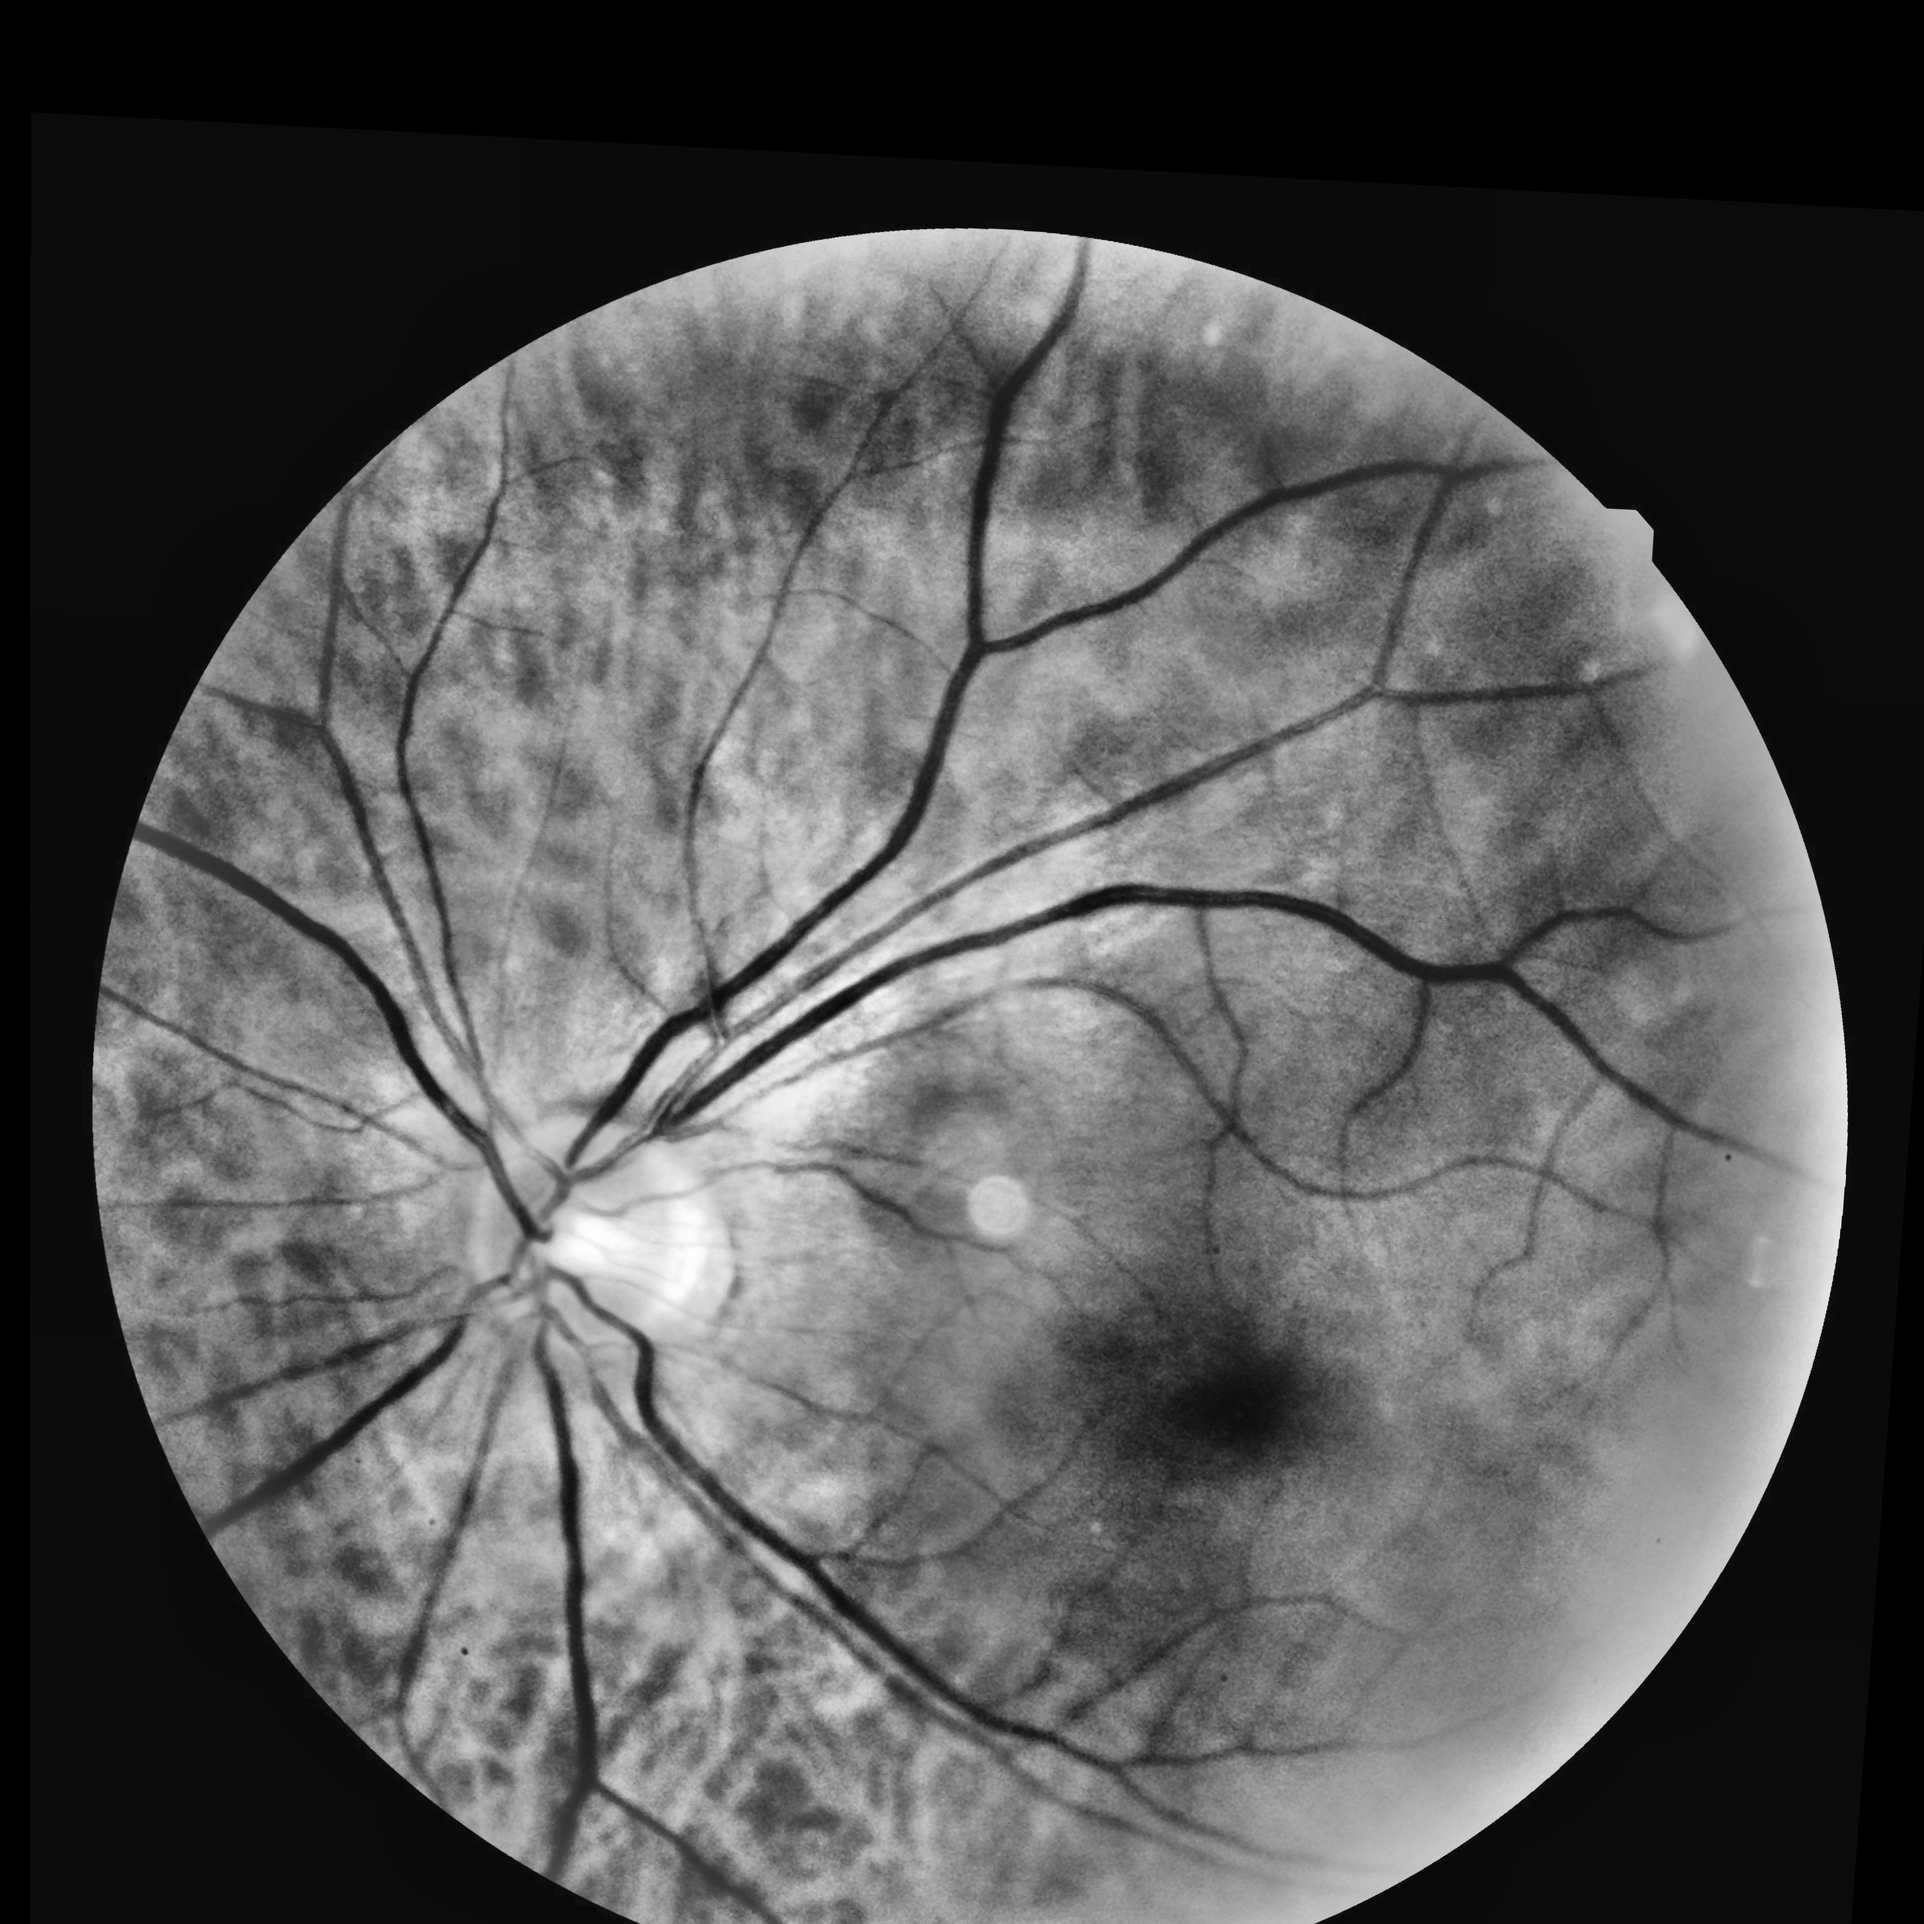
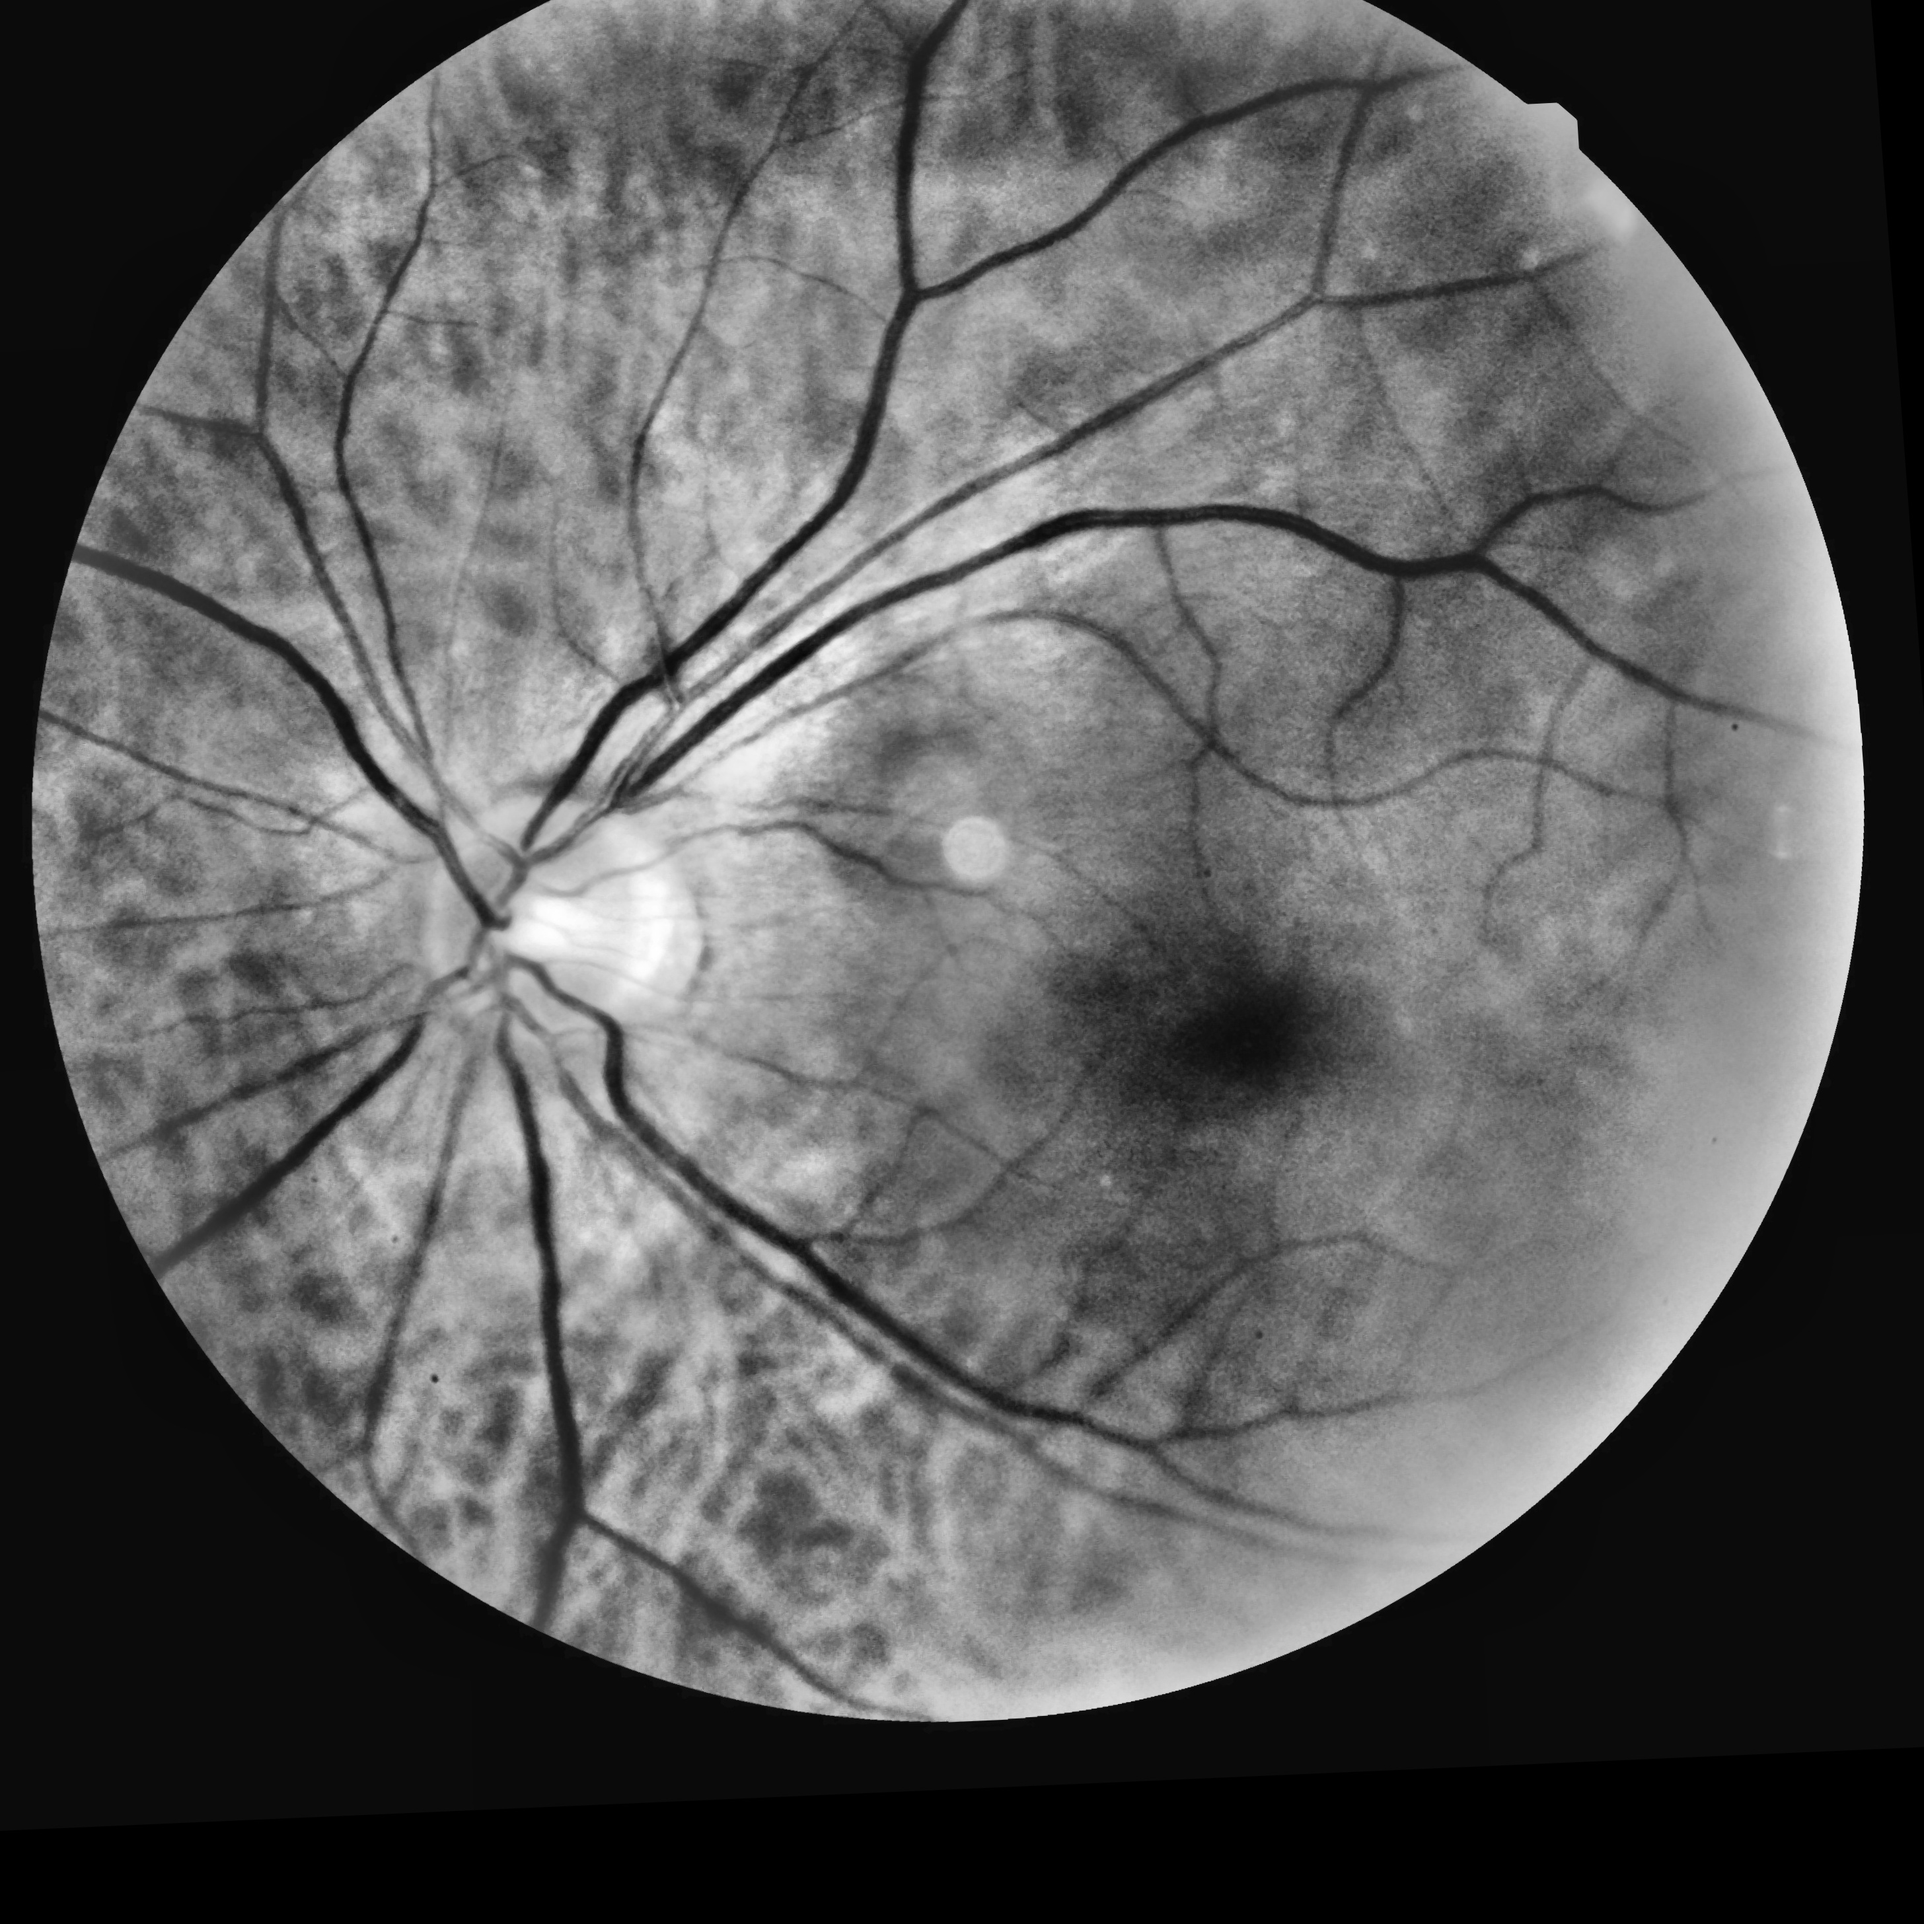
can kindad overlap now

diff --git a/ImageStitching/scripts/ImageWarper.py b/ImageStitching/scripts/ImageWarper.py
@@ -5,6 +5,8 @@ import os
 class ImageWarper:
     def __init__(self, images, homographies=None):
         self.images = images
+        self.warped_images = []
+        self.stitched_image = None
         self.homographies = homographies
 
     def warp_images(self):
@@ -13,20 +15,54 @@ class ImageWarper:
         
         warped_images = []
 
+        # apply homography on 2
         for i in range(1, len(self.images)):
             image = self.images[i]
             H = self.homographies[i-1] 
             warped_image = self.apply_warping(image.get_data(), H)
             warped_images.append(warped_image)
+        
+        self.warped_images = warped_images
 
         return warped_images
     
     def apply_warping(self, image, H):
         
-        height, width = image.shape[:2]
+        height, width = image.shape[:2] 
         warped_image = cv2.warpPerspective(image, H, (width, height))
 
         return warped_image
+    
+    def stitch_images(self):
+        # the first img is our base img for now
+        print("stiching images...")
+        base_image = self.images[0].get_data()
+        
+        for warped_image in self.warped_images:
+            base_image = self.blend_images(base_image, warped_image)
+
+        self.stitched_image = base_image
+        return base_image
+    
+    def blend_images(self, base_image, warped_image):
+        if base_image.shape != warped_image.shape:
+            print(f"Resizing warped_image from {warped_image.shape} to {base_image.shape}")
+            warped_image = cv2.resize(warped_image, (base_image.shape[1], base_image.shape[0]))
+        
+        blended_image = cv2.addWeighted(base_image, 0.5, warped_image, 0.5, 0)
+        return blended_image
+    
+
+    def save_stitched_image(self, folder_name, save_dir="./data/stitched/"):
+        if self.stitched_image is None:
+            raise ValueError("No stitched images found. Run stitch_images() first.")
+
+        stitched_filename = f"{folder_name}/{folder_name}.jpg"
+        save_path = os.path.join(save_dir, stitched_filename)
+        print("Saving stitched image in ", save_path)
+        cv2.imwrite(save_path, self.stitched_image)
+
+
 
     def show_warped_image(self, warped_images):
         combined_image = np.hstack(warped_images)

diff --git a/ImageStitching/scripts/main.py b/ImageStitching/scripts/main.py
@@ -49,6 +49,8 @@ def main(data_folder_path):
     matched_folder_path = os.path.join(data_folder_path, "matched")
     processed_folder_path = os.path.join(data_folder_path, "processed")
     warped_folder_path = os.path.join(data_folder_path, "warped")
+    stitched_folder_path = os.path.join(data_folder_path, "stitched")
+                                      
                                       
     subfolders = [f.path for f in os.scandir(input_folder_path) if f.is_dir()]
     
@@ -58,10 +60,12 @@ def main(data_folder_path):
         matched_subfolder_path = os.path.join(matched_folder_path, subfolder_name)
         processed_subfolder_path = os.path.join(processed_folder_path, subfolder_name)
         warped_subfolder_path = os.path.join(warped_folder_path, subfolder_name)
+        stitched_subfolder_path = os.path.join(stitched_folder_path, subfolder_name)
 
         os.makedirs(matched_subfolder_path, exist_ok=True)
         os.makedirs(processed_subfolder_path, exist_ok=True)
         os.makedirs(warped_subfolder_path, exist_ok=True)
+        os.makedirs(stitched_subfolder_path, exist_ok=True)
         
         images_in_subfolder = [f for f in os.listdir(subfolder) if f.endswith(('.jpg', '.png'))]
         
@@ -86,11 +90,12 @@ def main(data_folder_path):
         # Apply warping to the images
         image_warper = ImageWarper(processed_images, homographies)
         warped_images = image_warper.warp_images()
+        stitched_images = image_warper.stitch_images()
         
-        # Save the warped images into the output folder
+        # Save the warped and stitched images into the output folder
         for i, warped_image in enumerate(warped_images):
             image_warper.save_warped_image(warped_image, subfolder_name)
-            
+            image_warper.save_stitched_image(subfolder_name)
 
 if __name__ == "__main__":
     input_path= './data/input'

diff --git a/ImageStitching/scripts/Blending.py b/ImageStitching/scripts/Blending.py
@@ -10,9 +10,10 @@
 
 
 class Blending:
-    def __init__(self, images, homographies, blending_method="simple"):
+    def __init__(self, warped_images, homographies, blending_method="simple"):
         # Fields to store images, homographies, and blending method
-        self.images = images
+        self.warped_images = warped_images
+
         self.homographies = homographies
         self.blending_method = blending_method
         self.blended_image = None

diff --git a/ImageStitching/scripts/FeatureMatcher.py b/ImageStitching/scripts/FeatureMatcher.py
@@ -62,7 +62,8 @@ class FeatureMatcher:
             points1.append(kp1[m.queryIdx].pt)
             points2.append(kp2[m.trainIdx].pt)
 
-        H, mask = cv2.findHomography(np.float32(points1), np.float32(points2), cv2.RANSAC, 5.0)
+        # we will transform 2 into 1
+        H, mask = cv2.findHomography(np.float32(points2), np.float32(points1), cv2.RANSAC, 5.0)
 
         if H is None or mask is None:
             print("Homography computation failed")
